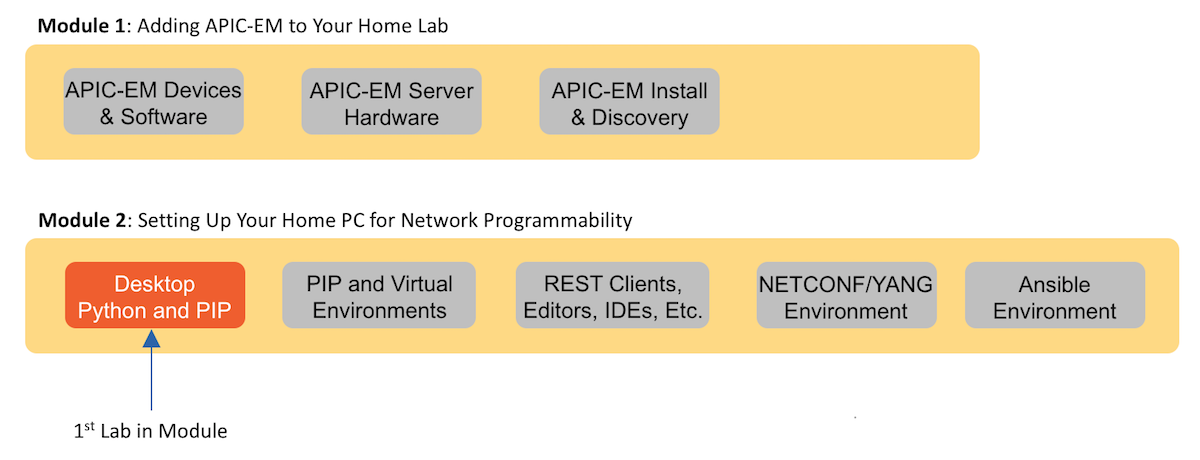
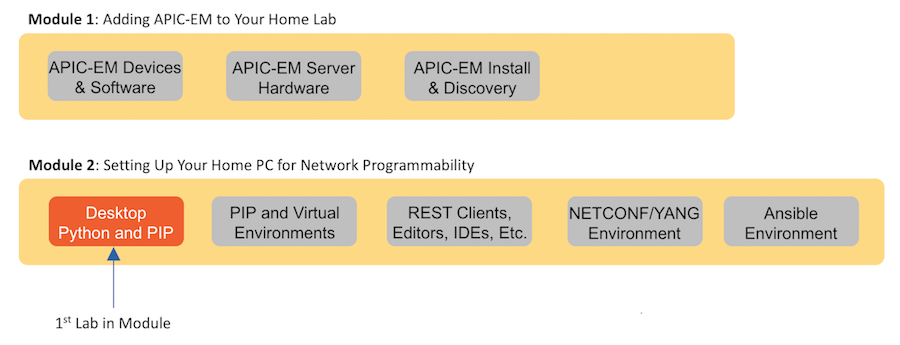
fixed figure links and resized figures in mod 2 lab 1
No edits to labs other than Mod 2 lab 1. Fixed incorrect URLs to figures, and resized a few as a test.

diff --git a/labs/02-python-01-home-lab-python/5.md b/labs/02-python-01-home-lab-python/5.md
@@ -41,7 +41,7 @@ Note that on Windows, you should take the extra steps to put the **python** comm
 
 In comparison to Windows, Linux uses a much different process for the installation of many apps. To install an application, you use a [*package manager*](https://www.howtogeek.com/117579/htg-explains-how-software-installation-package-managers-work-on-linux/). The package manager is an app itself, which checks an index of available software packages. To install new software, you run a command that names the software you want to install, for instance, “python” for the Python version 2 interpreter. The package manager searches the index for the location of the software, downloads the files, and installs the software, as shown in the example for Ubuntu Linux in the next figure with the apt package manager.
 
-![alt text](/posts/files/a2-python-01-home-lab-python/assets/images/desktop-1-10.png)
+![alt text](/posts/files/02-python-01-home-lab-python/assets/images/desktop-1-10.png)
 
 The type of Linux system dictates the specific package manager. For instance, Debian-based Linux systems (including Ubuntu) typically use **apt** (Advanced Package Tool) and **apt-get**. Linux systems from the Red Hat family typically often use **yum**. This lab uses examples from Ubuntu, therefore showing the use of apt.
 

diff --git a/labs/02-python-01-home-lab-python/1.md b/labs/02-python-01-home-lab-python/1.md
@@ -51,4 +51,4 @@ This DevNet Learning Lab (that is, the one you’re reading right now) is the fi
 
 The following figure summarizes the plan for the rest of this DevNet Learning Module.
 
-![alt text](/posts/files/a02-python-01-home-lab-python/assets/images/desktop-1-02.png)
+![alt text](/posts/files/02-python-01-home-lab-python/assets/images/desktop-1-02.png)
